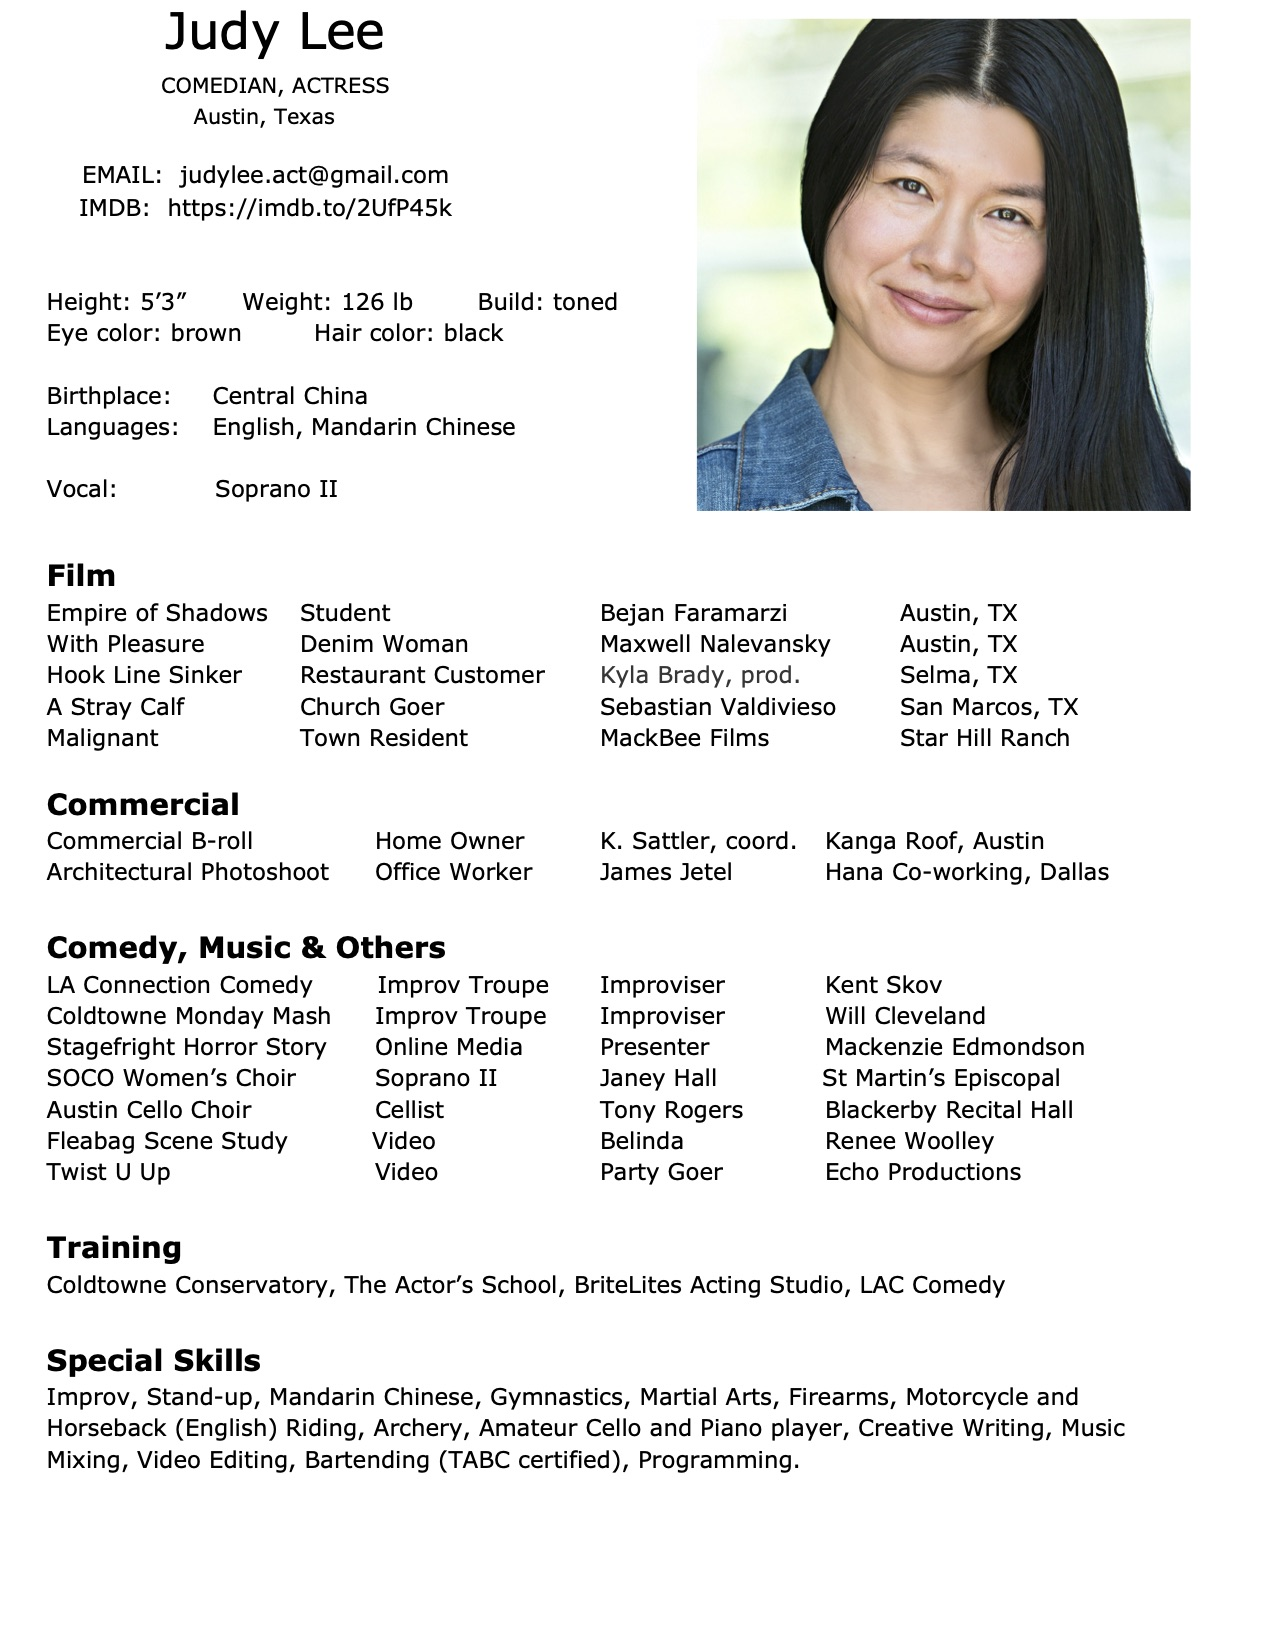
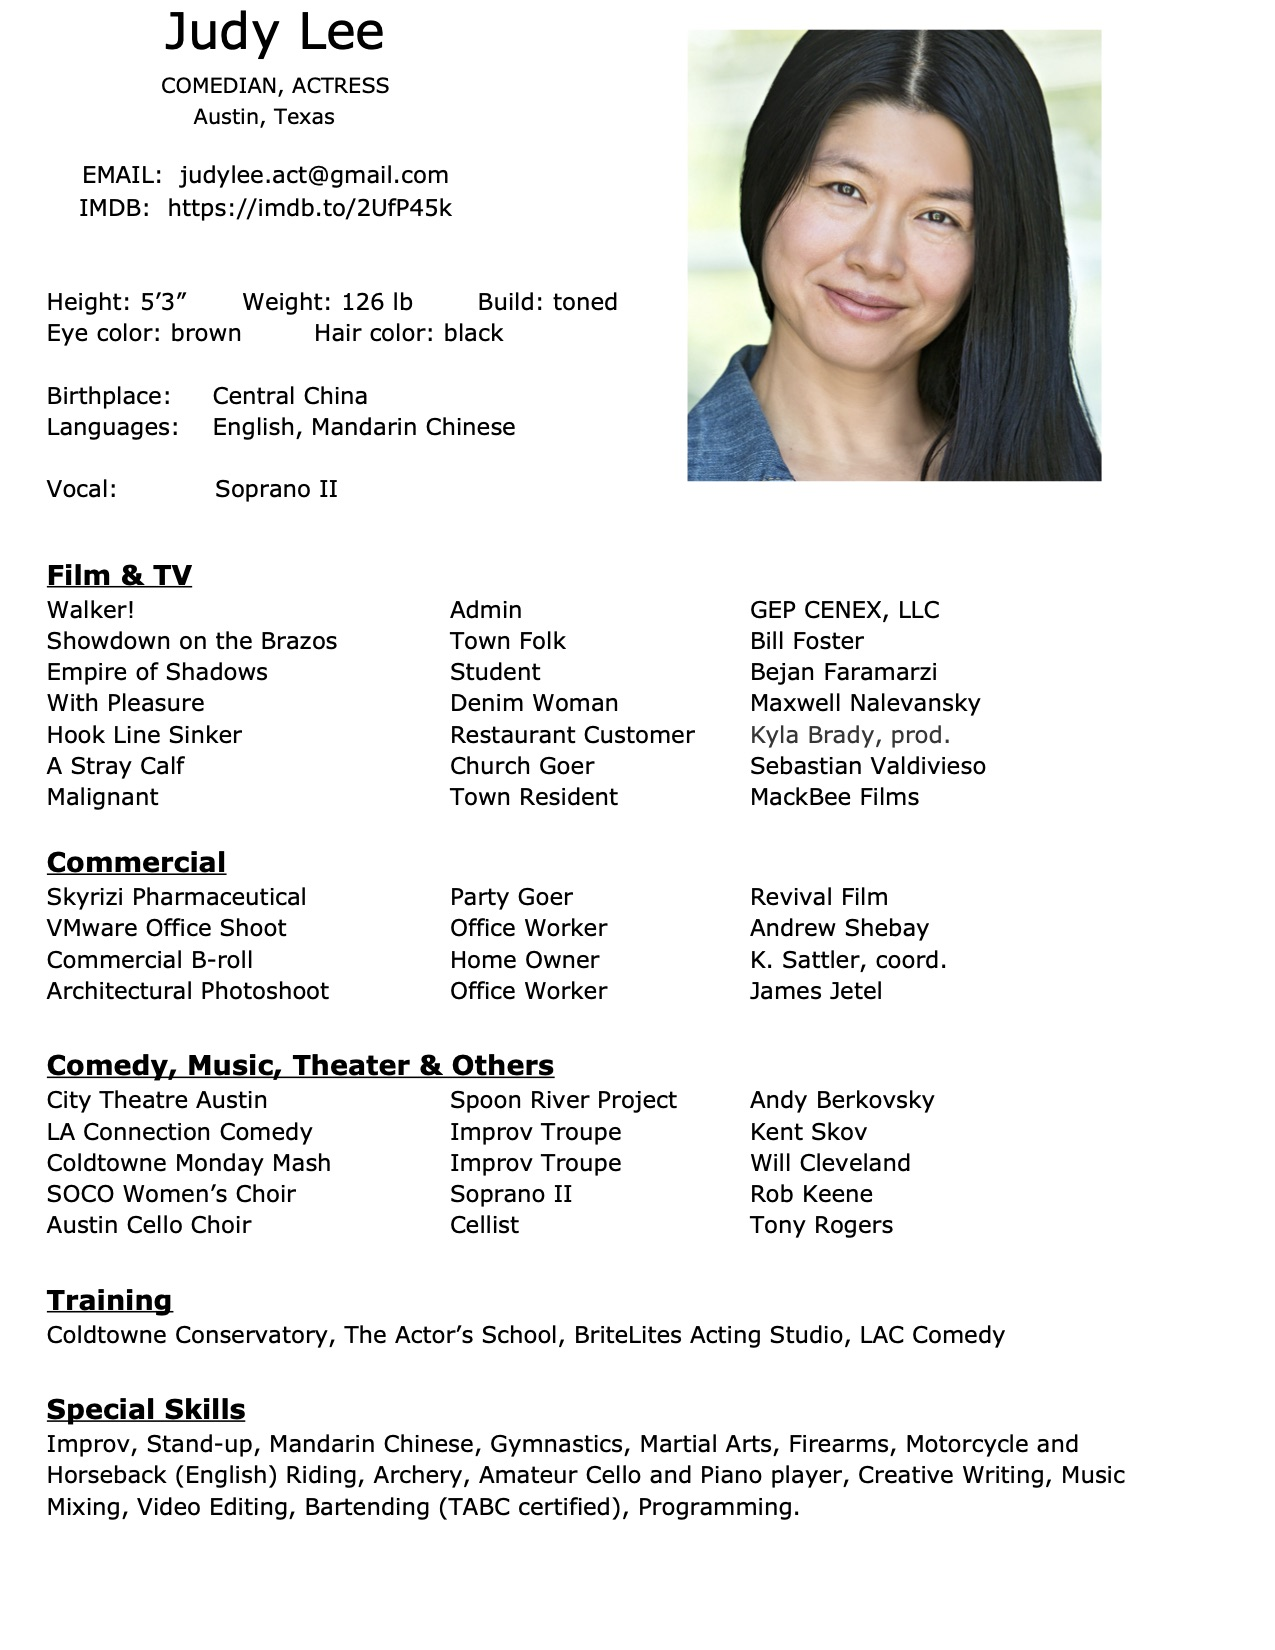
Update resume again.

Changed region(s): [[0.0306, 0.34, 0.8871, 0.9273], [0.52, 0.0, 0.9482, 0.3091], [0.8259, 0.5255, 0.8565, 0.5564]]

diff --git a/hamburger_button.js b/hamburger_button.js
@@ -16,7 +16,7 @@ class App extends React.Component {
     console.log(val);
     
     if (val.localeCompare('Resume') == 0) {
-      window.location.href="https://drive.google.com/file/d/1SvDY4-URzGvN4sO-JnSM948xRSwhLsR6/view?usp=sharing";
+      window.location.href="https://drive.google.com/file/d/1S2VFP-y038_gCl6CCPEhX5DPo2mY-4s-/view?usp=sharing";
     } else if (val.localeCompare('Voice Over') == 0) {
       window.location.href="https://www.backstage.com/u/judy-lee/media/audio/";
     } else if (val.localeCompare('Writing') == 0) {
